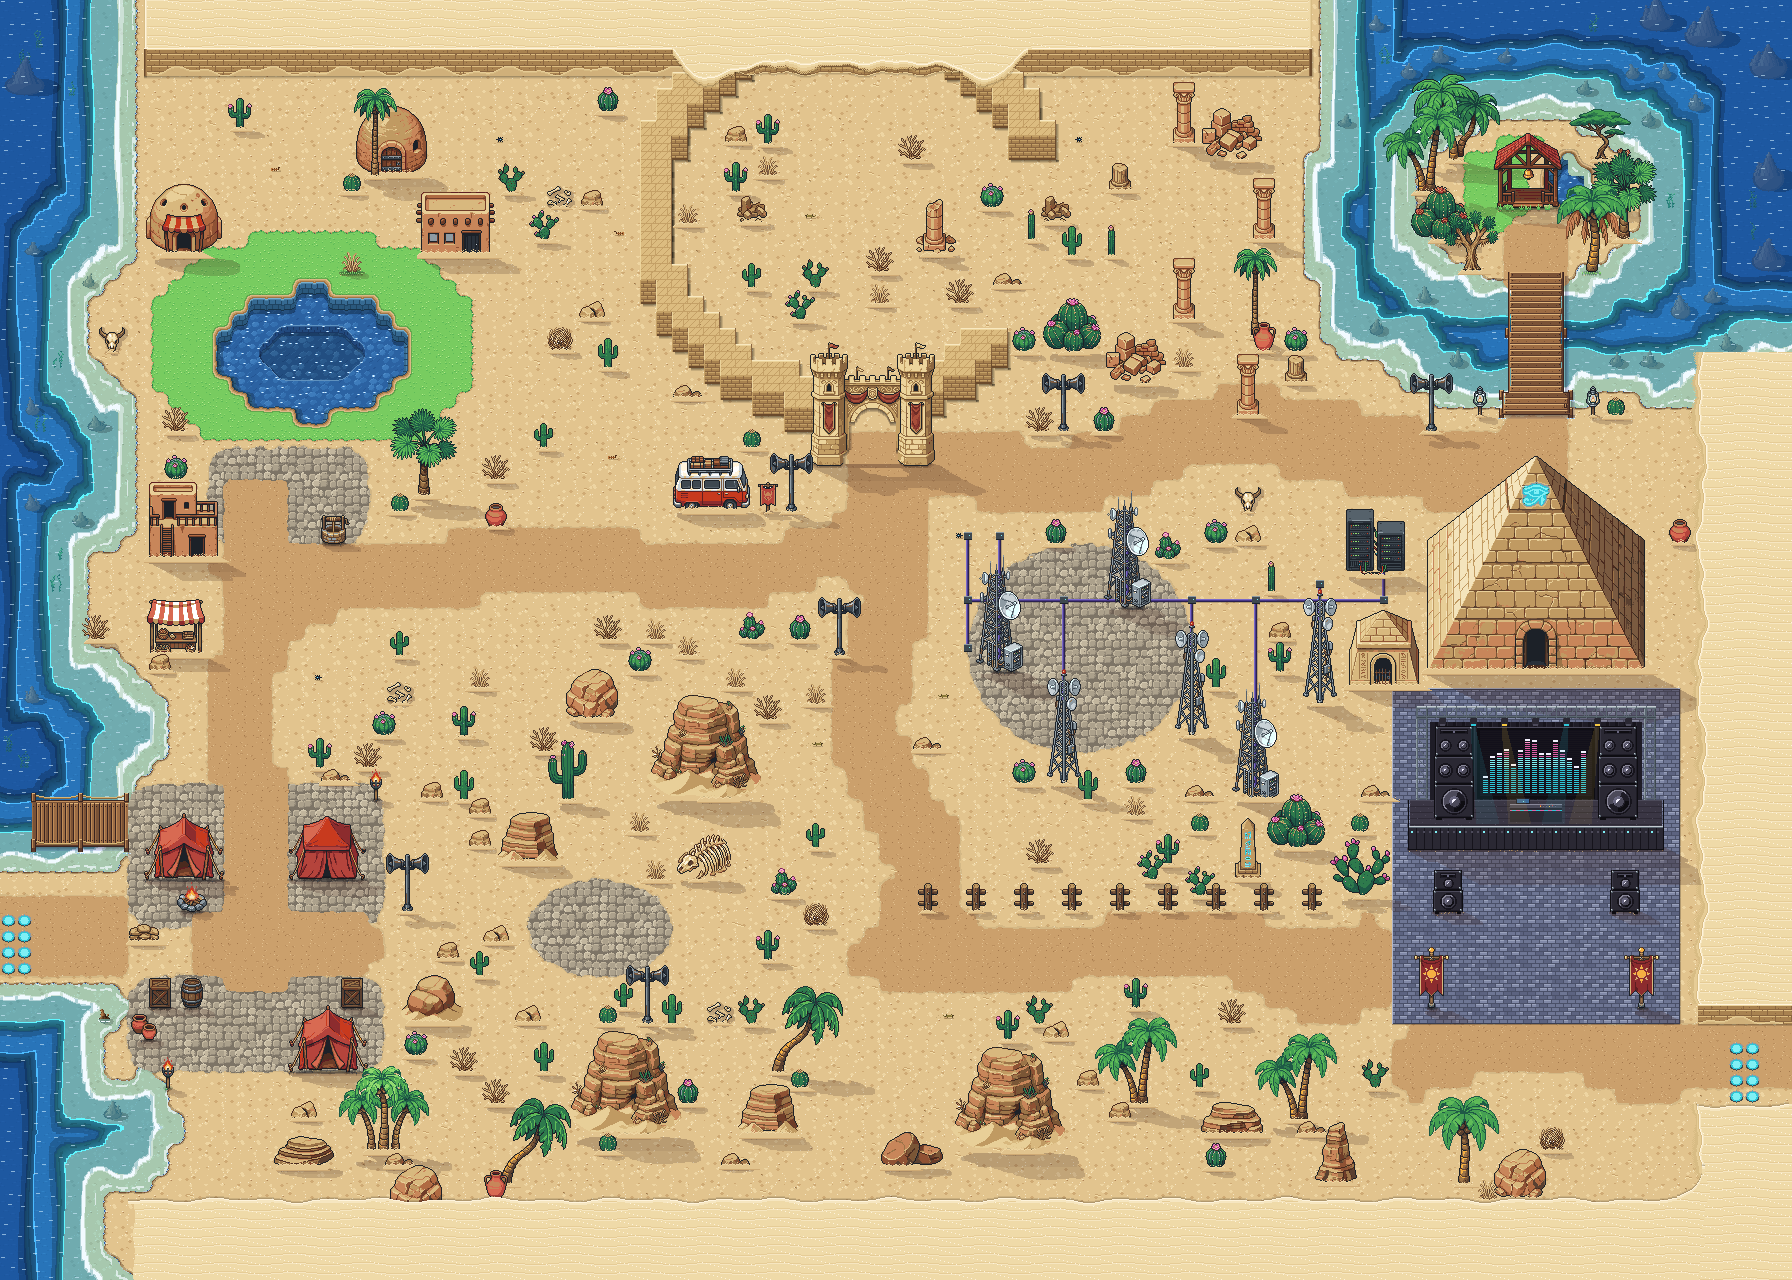
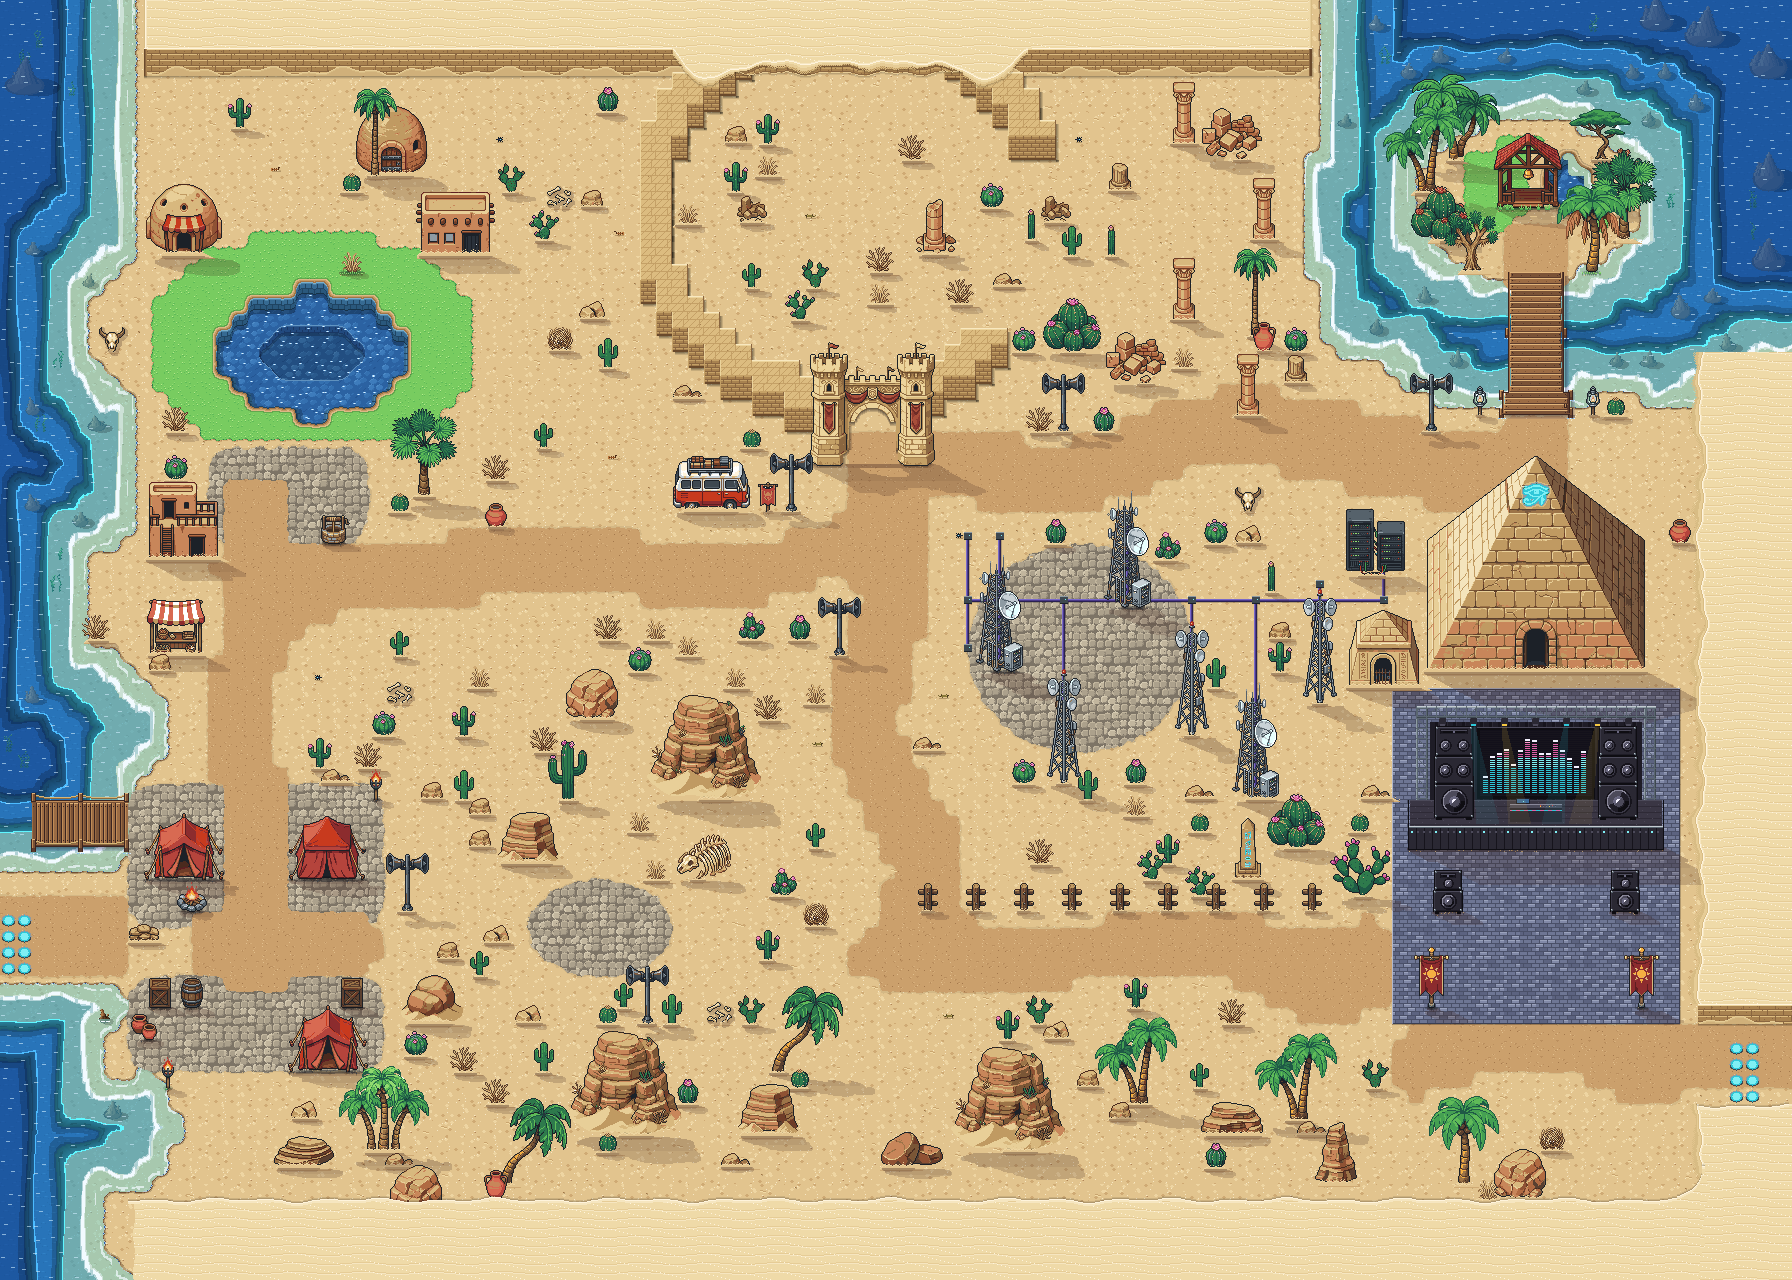
Karte 03: Schatten beginnen direkt am Objekt (Sandverwehung im Schatten mitschattiert); Regel in CLAUDE.md
Claude-Session: https://claude.ai/code/session_01SaoYHKhnro4LFcPJqjaPsq

Changed region(s): [[0.7188, 0.875, 0.75, 0.9062]]

diff --git a/tools/karte03_bauen.py b/tools/karte03_bauen.py
@@ -896,7 +896,7 @@ def objekte_zeichnen(img, objs, cache, boden, frame):
                 sp = schuesseln_drehen(sp, frame, o['x'] + o['y'], o['basis'])
         img.alpha_composite(sp, (o['x'], o['y']))
         if o['datei'].endswith('_sand.png') and not o.get('ohne_fuss'):
-            sandverwehung(img, o, cache[o['datei']])
+            sandverwehung(img, o, cache[o['datei']], sch)
 
 
 _MAST_CACHE = {}
@@ -972,7 +972,7 @@ import basis_kacheln as _bk
 SAND_V = [_bk.RGB[k] + (255,) for k in ('s0', 's1', 's2', 's2', 's3')]   # exakt die Bodensand-Toene
 
 
-def sandverwehung(img, o, sp):
+def sandverwehung(img, o, sp, sch=None):
     """Objekt steckt im Sand: an der Auflagekante liegt ein kleiner Sandwall ueber dem Objektfuss
     (2-5 px, wellig, Licht oben), seitlich auslaufend, auf der Leeseite (rechts) eine Windfahne."""
     a = np.array(sp.getchannel('A')) >= 200
@@ -985,6 +985,9 @@ def sandverwehung(img, o, sp):
     W, H = img.size
     def setz(x, y, c):
         if 0 <= x < W and 0 <= y < H:
+            if sch is not None and sch[y, x]:              # im Schatten: Verwehung mit abdunkeln, damit der
+                t_ = sch[y, x] / 255.0                      # Schatten direkt am Objektfuss anfaengt
+                c = tuple(int(c[i] * (1 - t_) + (64, 36, 30)[i] * t_) for i in range(3)) + (255,)
             px[x, y] = c
     kontakt = [x for x in spalten if np.nonzero(a[:, x])[0].max() >= tief - 3]
     if not kontakt:

diff --git a/CLAUDE.md b/CLAUDE.md
@@ -108,4 +108,6 @@ Wenn eine Karte fertig scheint: noch einmal komplett auf **Pixelfehler** und **L
 - **Gebäude stehen ganz auf Land:** Nicht nur der Fuß, sondern die ganze Fläche eines Gebäudes (auch Rückwand und
   Dach) liegt über Land, mit mindestens einer Kachel Strand bis zum Wasser. Gewollte Ausnahmen (Pavillon am Teich)
   werden ausdrücklich markiert.
+- **Schatten beginnen direkt am Objekt:** Der Kontaktschatten liegt unmittelbar am Fuß. Alles, was nach dem Schatten
+  am Fuß gezeichnet wird (Sandverwehung, Bodenfuß, Büschel), wird im Schatten mitschattiert – nie hell darübermalen.
 - **Ablauf:** Jede Änderung committen und pushen, Bilder/GIFs an den Nutzer schicken, auf Deutsch erklären.
